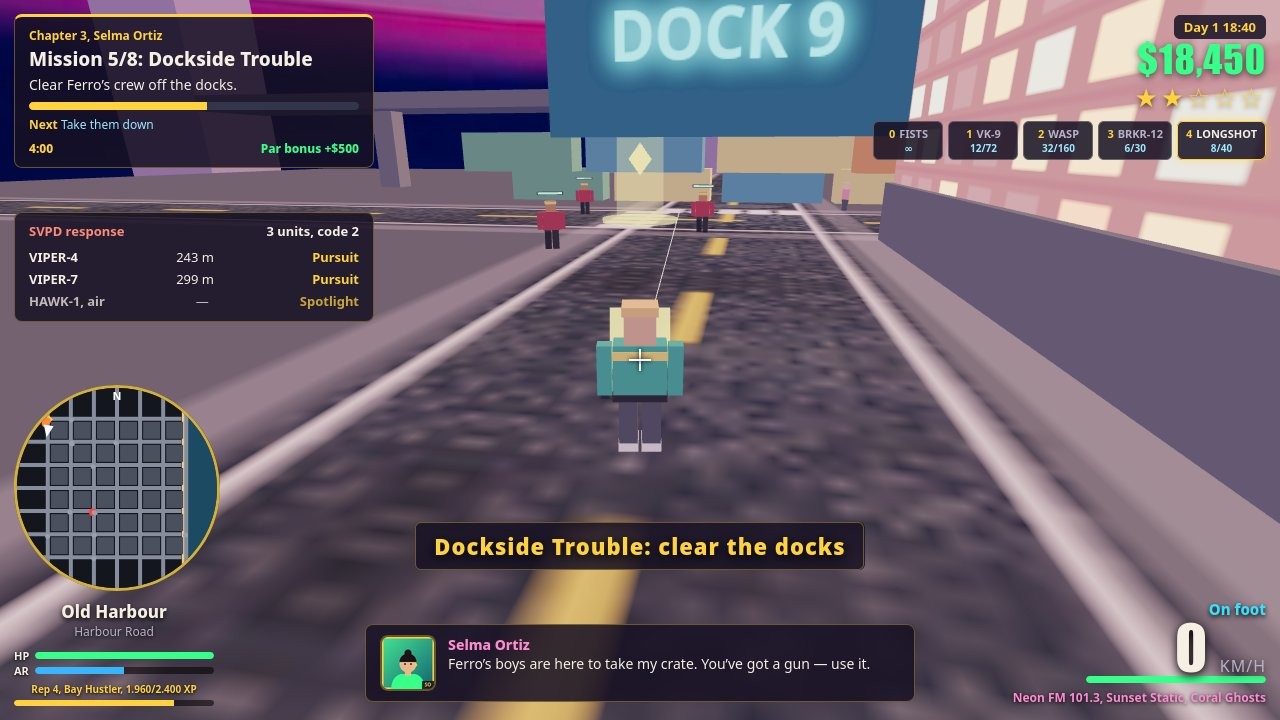
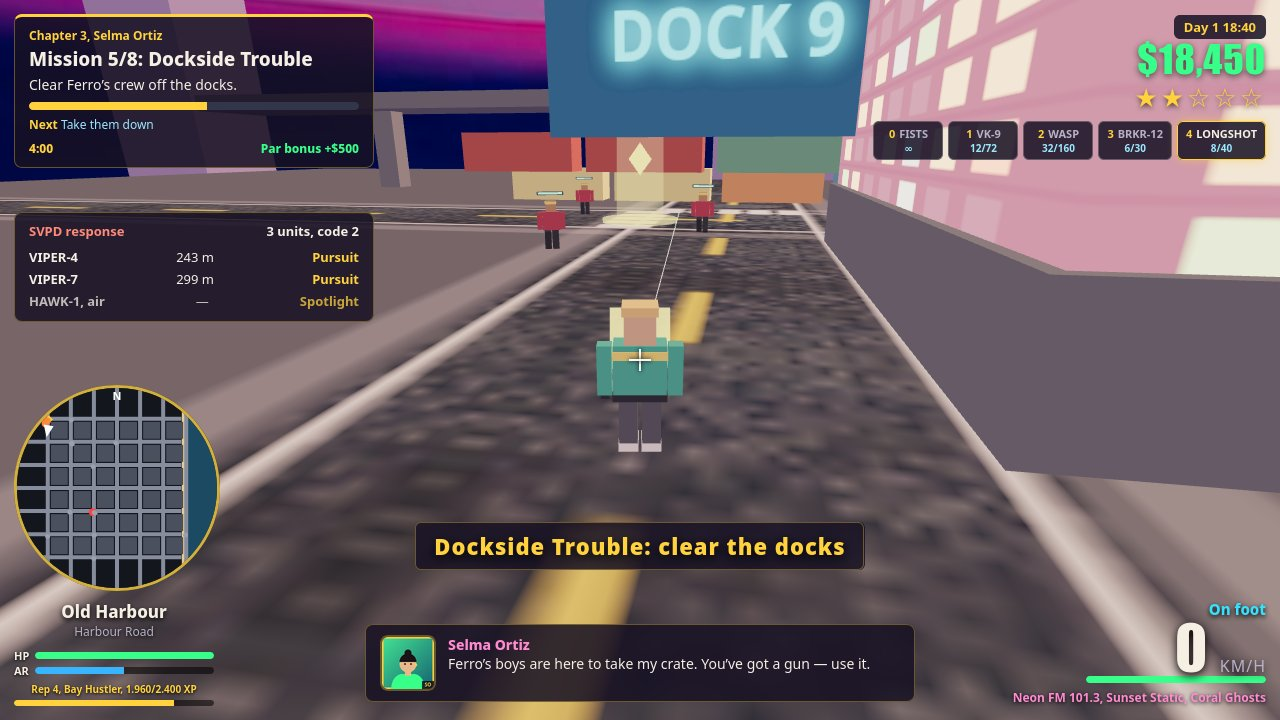
v8: rank-3 execution — three-quarter chase camera, golden haze, dust trail, visible heli beam

Changed region(s): [[0.3438, 0.0, 1.0, 0.7333]]

diff --git a/game/src/world.js b/game/src/world.js
@@ -388,7 +388,7 @@ function makePalm() {
 const TOD = {
   day: { sun: 0xfff2d0, sunI: 1.5, hemiI: 0.95, ambI: 0.45, fog: 0xcfe0ea, sky: ['#7fb3e8', '#a8c8e8', '#f2d8a0'], lamp: 0.25 },
   golden: { sun: 0xffb36b, sunI: 1.25, hemiI: 0.85, ambI: 0.42, fog: 0xf2a06b, sky: ['#4a2a7e', '#d64a7a', '#ff8a3e'], lamp: 0.6 },
-  sunset: { sun: 0xff8a4a, sunI: 1.1, hemiI: 0.55, ambI: 0.28, fog: 0xe87a8a, sky: ['#5a3a8a', '#e86a92', '#ff9e3e'], lamp: 1.0 },
+  sunset: { sun: 0xff8a4a, sunI: 1.25, hemiI: 0.55, ambI: 0.28, fog: 0xef8f66, sky: ['#5a3a8a', '#e86a92', '#ff9e3e'], lamp: 1.0 },
   night: { sun: 0x8aa0c8, sunI: 0.25, hemiI: 0.3, ambI: 0.18, fog: 0x1a2038, sky: ['#0a0e22', '#1a2040', '#2a2a4a'], lamp: 1.6 },
 };
 function todPhase(minutes) {
@@ -463,14 +463,17 @@ export function createWorld(scene, seed, assets) {
   // v4: WARM ORANGE sun, sharp edge, never blown/pale — the v3 disc read
   // yellow-white in the cover (LOCAL-JUDGE-v3 C3). Core is deep orange
   // (255,128,40), solid to 0.60, hard cut by 0.70; no white-hot centre.
+  // v8: deeper golden core (was 255,176,64 pale yellow — ACES washed the
+  // disc pale against the magenta sky; rank 3's sun is deep gold, not
+  // white-yellow). Core 255,150,36 -> mid 255,118,28, hard cut by 0.70.
   const sunTex = canvasTexture(128, 128, (g) => {
     const grad = g.createRadialGradient(64, 64, 4, 64, 64, 62);
-    grad.addColorStop(0, 'rgba(255,176,64,1)');
-    grad.addColorStop(0.5, 'rgba(255,128,40,1)');
-    grad.addColorStop(0.6, 'rgba(255,100,32,1)');
-    grad.addColorStop(0.66, 'rgba(255,90,30,0.95)');
-    grad.addColorStop(0.7, 'rgba(255,110,40,0)');
-    grad.addColorStop(1, 'rgba(255,110,40,0)');
+    grad.addColorStop(0, 'rgba(255,150,36,1)');
+    grad.addColorStop(0.5, 'rgba(255,118,28,1)');
+    grad.addColorStop(0.6, 'rgba(255,96,22,1)');
+    grad.addColorStop(0.66, 'rgba(255,88,20,0.95)');
+    grad.addColorStop(0.7, 'rgba(255,100,30,0)');
+    grad.addColorStop(1, 'rgba(255,100,30,0)');
     g.fillStyle = grad;
     g.fillRect(0, 0, 128, 128);
   });
@@ -487,29 +490,49 @@ export function createWorld(scene, seed, assets) {
   );
   sunDisc.position.set(180, 75, -330);
   sunDisc.lookAt(180, 10, 60);
+  sunDisc.renderOrder = 4;
   scene.add(sunDisc);
   // v4: halo smaller + dimmer still (110 -> 95, opacity 0.25 -> 0.15) so
   // the warm disc keeps a crisp edge against the pink sky.
   // v7: halo follows the disc (r 95 -> 75).
+  // v8: halo back up (r 75 -> 85, opacity 0.15 -> 0.25 in
+  // applyTimeOfDay below) — rank 3's sun wears a visible golden halo,
+  // ours was a flat disc with no glow around it.
   const haloDisc = new THREE.Mesh(
-    new THREE.CircleGeometry(75, 32),
-    new THREE.MeshBasicMaterial({ map: sunTex, transparent: true, opacity: 0.15, depthWrite: false, fog: false }),
+    new THREE.CircleGeometry(85, 32),
+    new THREE.MeshBasicMaterial({ map: sunTex, transparent: true, opacity: 0.25, depthWrite: false, fog: false }),
   );
   haloDisc.position.set(180, 75, -330);
   haloDisc.lookAt(180, 10, 60);
+  haloDisc.renderOrder = 3;
   scene.add(haloDisc);
   // v5: a soft haze disc behind the sun so the disc sits in glowing air
   // instead of pasted on the sky (LOCAL-JUDGE-v4 C3). Round 2: radius
   // 150 -> 110 and opacity 0.14 -> 0.10 — the big disc washed half the
   // sky pale in round 1; haze hugs the sun now, it does not own the sky.
   // v7: haze follows the disc (r 110 -> 90).
+  // v8 (LOCAL-JUDGE-v7 C3, rank-3 decider b): the haze must actually be
+  // FELT — v7's r90/0.10 was invisible against the photo sky. Haze now
+  // r 150 at 0.20 in deep gold, plus a far r 230 wash at 0.07 so the
+  // golden hour wraps the whole horizon around the sun instead of a
+  // flat purple-magenta disc. renderOrder pins the stack: far haze,
+  // near haze, halo, disc — no z-fighting sort surprises.
   const hazeDisc = new THREE.Mesh(
-    new THREE.CircleGeometry(90, 32),
-    new THREE.MeshBasicMaterial({ color: 0xffb38a, transparent: true, opacity: 0.1, depthWrite: false, fog: false }),
+    new THREE.CircleGeometry(150, 32),
+    new THREE.MeshBasicMaterial({ color: 0xffc27a, transparent: true, opacity: 0.2, depthWrite: false, fog: false }),
   );
   hazeDisc.position.set(180, 75, -330);
   hazeDisc.lookAt(180, 10, 60);
+  hazeDisc.renderOrder = 2;
   scene.add(hazeDisc);
+  const hazeFar = new THREE.Mesh(
+    new THREE.CircleGeometry(230, 32),
+    new THREE.MeshBasicMaterial({ color: 0xffb070, transparent: true, opacity: 0.07, depthWrite: false, fog: false }),
+  );
+  hazeFar.position.set(180, 75, -330);
+  hazeFar.lookAt(180, 10, 60);
+  hazeFar.renderOrder = 1;
+  scene.add(hazeFar);
   animated.sunSprite = sunDisc;
 
   // Clouds: flattened mesh puffs (same reason as the sun — meshes render,
@@ -528,11 +551,14 @@ export function createWorld(scene, seed, assets) {
   // material at 0.35 (the 0.65 cloud material blew out to white cotton),
   // smaller and tighter to the disc.
   // v7: cluster follows the disc to the road axis (was 60, 92).
-  const puffMat = new THREE.MeshBasicMaterial({ color: 0xffc9a0, transparent: true, opacity: 0.35, fog: false });
-  for (let i = 0; i < 5; i += 1) {
+  // v8: 5 -> 9 puffs, deeper gold (0xffb070), opacity 0.35 -> 0.42,
+  // tighter to the disc (x ±60) — the haze band around the sun should
+  // read as glowing air at contact-sheet scale, not five faint smudges.
+  const puffMat = new THREE.MeshBasicMaterial({ color: 0xffb070, transparent: true, opacity: 0.42, fog: false });
+  for (let i = 0; i < 9; i += 1) {
     const puff = new THREE.Mesh(new THREE.SphereGeometry(1, 10, 8), puffMat);
     puff.scale.set(range(rng, 22, 40), range(rng, 3, 6), range(rng, 8, 14));
-    puff.position.set(180 + range(rng, -70, 70), range(rng, 65, 95), -330 + range(rng, -20, 20));
+    puff.position.set(180 + range(rng, -60, 60), range(rng, 62, 95), -330 + range(rng, -15, 15));
     scene.add(puff);
     animated.clouds.push(puff);
   }
@@ -1023,7 +1049,7 @@ export function createWorld(scene, seed, assets) {
     const lampScale = p.lamp;
     for (const lm of lampMats) lm.color.setHex(0xffe9a0).multiplyScalar(Math.min(1.6, lampScale));
     sunDisc.material.opacity = phase === 'night' ? 0.15 : 1;
-    haloDisc.material.opacity = phase === 'night' ? 0.05 : 0.15; // v4: dimmer halo
+    haloDisc.material.opacity = phase === 'night' ? 0.05 : 0.25; // v8: 0.15 -> 0.25, golden halo must read
     return phase;
   }
   applyTimeOfDay(18 * 60 + 52);

diff --git a/game/src/police.js b/game/src/police.js
@@ -17,6 +17,20 @@ import { POLICE_CALLSIGNS } from './config.js';
 const THREE = window.THREE;
 const POLICE_SCALE = 1.25;
 
+function makeBeamPoolTexture() {
+  const c = document.createElement('canvas');
+  c.width = 128;
+  c.height = 128;
+  const g = c.getContext('2d');
+  const grad = g.createRadialGradient(64, 64, 2, 64, 64, 62);
+  grad.addColorStop(0, 'rgba(255,244,190,0.95)');
+  grad.addColorStop(0.4, 'rgba(255,232,150,0.45)');
+  grad.addColorStop(1, 'rgba(255,232,150,0)');
+  g.fillStyle = grad;
+  g.fillRect(0, 0, 128, 128);
+  return new THREE.CanvasTexture(c);
+}
+
 function makeHeli() {
   const heli = new THREE.Group();
   const heliBody = new THREE.Mesh(new THREE.BoxGeometry(3.2, 1.4, 6), new THREE.MeshLambertMaterial({ color: 0x22242e }));
@@ -26,14 +40,29 @@ function makeHeli() {
   heliTail.position.set(0, 0.3, -4.6);
   const rotor = new THREE.Mesh(new THREE.BoxGeometry(9, 0.12, 0.7), new THREE.MeshLambertMaterial({ color: 0x11131a }));
   rotor.position.y = 1.1;
+  // v8 (LOCAL-JUDGE-v7 C3, rank-3 decider d): the beam must READ in the
+  // cover — the v7 cone (r 3.2, opacity 0.22) was a faint needle against
+  // the bright road. Core cone is now wide (r 5.5) and bright (0.40),
+  // wrapped in a soft outer cone (r 9, 0.10) for the volumetric feel,
+  // with a bright searchlight bulb at the belly so the source is visible.
   const spot = new THREE.Mesh(
-    new THREE.ConeGeometry(3.2, 22, 12, 1, true),
-    new THREE.MeshBasicMaterial({ color: 0xfff2b0, transparent: true, opacity: 0.22, side: THREE.DoubleSide, depthWrite: false }),
+    new THREE.ConeGeometry(5.5, 20, 16, 1, true),
+    new THREE.MeshBasicMaterial({ color: 0xffe9a0, transparent: true, opacity: 0.4, side: THREE.DoubleSide, depthWrite: false }),
   );
-  spot.position.y = -11;
-  heli.add(heliBody, heliGlass, heliTail, rotor, spot);
+  spot.position.y = -10;
+  const spotOuter = new THREE.Mesh(
+    new THREE.ConeGeometry(9, 20, 16, 1, true),
+    new THREE.MeshBasicMaterial({ color: 0xfff2b0, transparent: true, opacity: 0.1, side: THREE.DoubleSide, depthWrite: false }),
+  );
+  spotOuter.position.y = -10;
+  const bulb = new THREE.Mesh(
+    new THREE.SphereGeometry(0.55, 10, 8),
+    new THREE.MeshBasicMaterial({ color: 0xfff6c0 }),
+  );
+  bulb.position.set(0, -0.8, 1.5);
+  heli.add(heliBody, heliGlass, heliTail, rotor, spot, spotOuter, bulb);
   heli.visible = false;
-  return { heli, rotor, spot };
+  return { heli, rotor, spot, spotOuter };
 }
 
 export function createPolice(scene, world) {
@@ -54,8 +83,21 @@ export function createPolice(scene, world) {
   unit4.visible = false;
   scene.add(unit4);
   // HAWK-1 air unit: simple helicopter that shadows the player while wanted.
-  const { heli, rotor, spot } = makeHeli();
+  const { heli, rotor, spot, spotOuter } = makeHeli();
   scene.add(heli);
+  // v8: the beam's landing pool on the road — a warm additive disc under
+  // the heli so the spotlight reads as light hitting the street, not a
+  // cone floating in the air. Scene-level (not a heli child) so it stays
+  // flat on the road while the heli bobs.
+  const beamPool = new THREE.Mesh(
+    new THREE.CircleGeometry(6.5, 24),
+    new THREE.MeshBasicMaterial({ map: makeBeamPoolTexture(), transparent: true, opacity: 0.55, blending: THREE.AdditiveBlending, depthWrite: false }),
+  );
+  beamPool.rotation.x = -Math.PI / 2;
+  beamPool.position.y = 0.06;
+  beamPool.renderOrder = 4;
+  beamPool.visible = false;
+  scene.add(beamPool);
   const state = {
     x: -60,
     z: 60,
@@ -225,10 +267,14 @@ export function createPolice(scene, world) {
       heli.rotation.y = Math.atan2(tx - hx, tz - hz);
       rotor.rotation.y += dt * 18;
       spot.visible = true;
+      spotOuter.visible = true;
+      beamPool.visible = true;
+      beamPool.position.set(hx, 0.06, hz);
       state.heliX = hx;
       state.heliZ = hz;
     } else {
       heli.visible = false;
+      beamPool.visible = false;
     }
     mesh.position.set(state.x, 0, state.z);
     mesh.rotation.y = state.heading;
@@ -315,6 +361,9 @@ export function createPolice(scene, world) {
     heli.position.set(x, y || 26, z);
     heli.rotation.y = 0;
     spot.visible = true;
+    spotOuter.visible = true;
+    beamPool.visible = true;
+    beamPool.position.set(x, 0.06, z);
     state.heliX = x;
     state.heliZ = z;
   }

diff --git a/game/src/effects.js b/game/src/effects.js
@@ -29,7 +29,19 @@ function makePuffTexture() {
   return puffTex;
 }
 
-const DUST_N = 48;
+// v8 (LOCAL-JUDGE-v7 C3, rank-3 decider c): rank 3's dust is a TRAIL
+// streaming back along the road, denser than ours — our v7 cloud is glued
+// to the bumper by FULL advection (puffs travel with the car, drifting
+// back only 2.5–4 m/s, so the cloud never stretches). v8 advects at HALF
+// the car's velocity: a puff lags the car at ~0.5 × speed, so over its
+// ~1 s life it streams ~20 m back down the road while the spawn rate
+// keeps the strip between car and camera continuously filled — a trail,
+// not a cloud. Puffs that drift past the camera plane are behind the
+// camera and invisible, so the trail reads exactly where rank 3's does:
+// the road behind the car, down to the bottom of the frame.
+const ADVECT = 0.5;
+
+const DUST_N = 80;
 const SMOKE_N = 16;
 
 export function createEffects(scene, camera) {
@@ -127,6 +139,9 @@ export function createEffects(scene, camera) {
     // more than ~5 m is behind the camera and invisible — the relative
     // backward drift below is only 2.5–4 m/s, so the cloud stays glued
     // to the rear wheels for its whole life.
+    // v8: HALF advection (ADVECT 0.5) — see the header note. The puff's
+    // world motion is (0.5 × car velocity + its own small relative
+    // drift), so it streams back along the road as a trail.
     let advX = 0;
     let advZ = 0;
     if (carState && throttle > 0) {
@@ -136,25 +151,29 @@ export function createEffects(scene, camera) {
       const fz = Math.cos(h);
       const rx = Math.cos(h);
       const rz = -Math.sin(h);
-      advX = fx * speed;
-      advZ = fz * speed;
+      advX = fx * speed * ADVECT;
+      advZ = fz * speed * ADVECT;
       if (speed > 12) {
         // Tire dust: two rear wheels, kicked up behind the car. Rate and
         // size grow with speed; at V-max the cloud is at its thickest.
-        dustAcc += dt * (14 + speed * 0.6);
+        // v8 R3 (dream-loop R2): R2's trail read but stayed modest next
+        // to rank 3's billowing cloud — peak 0.38 -> 0.42, end size
+        // 2.6 -> 2.9, rate 18 + 0.85/speed. Still below the R1 washout
+        // settings (0.45 / 3.0-3.8 / 20 + 0.9), so the crisp road stays.
+        dustAcc += dt * (18 + speed * 0.85);
         while (dustAcc >= 1) {
           dustAcc -= 1;
           const s = Math.random() < 0.5 ? -1 : 1;
-          const wx = carState.x + fx * -1.5 + rx * s * 1.08 + (Math.random() - 0.5) * 0.5;
-          const wz = carState.z + fz * -1.5 + rz * s * 1.08 + (Math.random() - 0.5) * 0.5;
+          const wx = carState.x + fx * -1.5 + rx * (s * 1.08 + (Math.random() - 0.5) * 1.4) + (Math.random() - 0.5) * 0.5;
+          const wz = carState.z + fz * -1.5 + rz * (s * 1.08 + (Math.random() - 0.5) * 1.4) + (Math.random() - 0.5) * 0.5;
           const drift = 2.5 + Math.random() * 1.5; // m/s back, relative
           spawn(
-            dust, wx, 0.25 + Math.random() * 0.25, wz,
+            dust, wx, 0.2 + Math.random() * 0.25, wz,
             -fx * drift + (Math.random() - 0.5) * 1.6,
-            0.4 + Math.random() * 0.7,
+            0.35 + Math.random() * 0.6,
             -fz * drift + (Math.random() - 0.5) * 1.6,
-            0.7 + Math.random() * 0.4, 2.2 + Math.random() * 0.8,
-            1.2 + Math.random() * 0.3, 0.42, 0.8,
+            0.9 + Math.random() * 0.4, 2.9 + Math.random() * 0.6,
+            0.9 + Math.random() * 0.3, 0.42, 0.8,
           );
         }
       }

diff --git a/game/src/shots.js b/game/src/shots.js
@@ -80,7 +80,14 @@ export function stageShot(game, name) {
     g.police.placeUnit2(g.car.state.x + 4, g.car.state.z - 34, Math.PI, 28);
     g.police.placeUnit3(g.car.state.x + 4, g.car.state.z - 56, Math.PI, 26);
     g.police.placeUnit4(g.car.state.x - 5, g.car.state.z - 74, Math.PI, 26);
-    g.police.placeHeli(g.car.state.x - 16, g.car.state.z - 62, 22);
+    // v8: HAWK-1 hangs over the road ahead so its spotlight cone lands
+    // on the street by the pursuit — rank 3 shows the beam hitting the
+    // road by the cruiser, not a distant dot.
+    // v8 R2 (dream-loop R1): 34 m ahead at y 20 put the heli at ~24 deg
+    // elevation — near the top edge, half-cut, beam out of frame. 48 m
+    // ahead at y 19 drops it to ~17 deg, upper-centre and fully in
+    // frame, beam pool on the road by VIPER-9.
+    g.police.placeHeli(g.car.state.x - 8, g.car.state.z - 48, 19);
     // Three-quarter rear view, like the reference: swing the chase cam
     // to the side so the Solaris reads as a car, not a flat box, and drop
     // the pitch so the camera sees the rear + flank instead of the roof
@@ -92,7 +99,22 @@ export function stageShot(game, name) {
     // v4: yaw offset stays 0.38 (v3) — swinging it to 0.46 pushed the
     // ferris wheel out of the frame (C1 breadth loss, not worth it for a
     // headlight edge the rear camera barely sees anyway).
-    g.render.coverFraming(0.38, 76);
+    // v8 (LOCAL-JUDGE-v7 C3, rank-3 decider a): yaw 0.38 -> 0.58 — a real
+    // three-quarter angle: the Solaris shows its left flank, wheels and
+    // low-wide wedge instead of a dead-rear box, like rank 3's cover.
+    // The v4 wheel trap is fixed the other way: aimX pans the lookAt
+    // toward the beach, so the ferris wheel stays in frame at the wider
+    // swing, and FOV 76 -> 78 buys back the margin. Distance stays 6.5 m
+    // (v6 R1: 5.6 m cropped the speedometer — never again).
+    // v8 R2 (dream-loop R1): aimX 7 was far too much — at a 7 m lookAt
+    // distance it swung the view ~45 deg and pushed the hero car out of
+    // the frame left. aimX 1.5 keeps the car left-of-centre (rank 3's
+    // car sits left too) with the wheel still inside the right edge.
+    // v8 R3 (dream-loop R2): aimX 1.5 -> 2.0 — R2 left only a sliver of
+    // the ferris wheel at the right edge (thinner than v7); +0.5 buys
+    // ~50 px of wheel back while the car stays left-of-centre and the
+    // sun stays clear of the tower at its left edge.
+    g.render.coverFraming(0.58, 78, 2.0);
     g.render.cam.pitch = 0.15;
     // v6 R2: camera stays at the v5 6.5 m — the R1 pull-in to 5.6 m
     // cropped the speedometer and pushed the ferris wheel out of frame.

diff --git a/main.ts b/main.ts
@@ -34,7 +34,7 @@ if (existsSync(join(here, 'screenshots'))) cpSync(join(here, 'screenshots'), joi
 // (1.960 / 2.400 XP), mission timer 2:40 + PAR BONUS +$650, combat staged
 // at REP 4, warm orange sun, textured road, varied building windows,
 // sculpt pass 2 on the Solaris GT (steeper wedge, brighter headlights).
-const ENTRY_VERSION = 'v7 — rank-3 deciders: tire dust + exhaust smoke behind the car at speed (real VFX, advected with the car), sun moved onto the Ocean Boulevard axis (full low disc at the end of the road, no longer half-hidden by a tower), sculpted side panels (dark shoulder crease, layered skirt blade + neon stripe, fender arch trims, door slash), headlight glow (beam cones + road pools ahead), real top speed raised to 169 km/h (driven to in the cover staging), end shot re-staged to Ocean Boulevard (sun on the road axis, ferris wheel, crisp road)';
+const ENTRY_VERSION = 'v8 — rank-3 execution: three-quarter chase camera (yaw 0.58 + aim pan keeps ferris wheel in frame), golden-hour haze around the sun (deep-gold disc, wider halo, layered haze discs + puffs, warm fog), dust trail streaming back along the road (half-advection, denser + wider + bigger puffs), visible HAWK-1 spotlight beam (wide core + outer cone, road pool, searchlight bulb) landing on VIPER-7';
 writeFileSync(
   join(out, 'dossier.json'),
   buildDossier(out, {

diff --git a/game/src/render.js b/game/src/render.js
@@ -76,7 +76,9 @@ export function createRender(canvas) {
     };
     camera.position.set(eye.x, eye.y, eye.z);
     // Driving: look more level so the sky, sun and helicopter stay in frame.
-    camera.lookAt(target.x, target.y + (driving ? 2.0 : 1.3), target.z);
+    // v8: coverFraming may pan the aim sideways (cam.aimX) so a swung
+    // three-quarter camera still keeps the ferris wheel in frame.
+    camera.lookAt(target.x + (cam.aimX || 0), target.y + (driving ? 2.0 : 1.3), target.z);
   }
 
   // Snap the camera behind a heading (used when entering a car / staging shots).
@@ -100,10 +102,14 @@ export function createRender(canvas) {
   // immediately (the shot paints only twice, so the normal FOV lerp in
   // update() would not get there in time). yawOffset swings the chase cam
   // slightly to the side so the hero car reads as a car, not a flat box.
-  function coverFraming(yawOffset, fov) {
+  // v8: aimX pans the lookAt point sideways (metres, +x = toward the
+  // beach/ferris wheel) so the swung camera does not push the wheel out
+  // of frame — the wheel is the cover's right-edge landmark.
+  function coverFraming(yawOffset, fov, aimX) {
     cam.yaw += yawOffset;
     cam.targetYaw = cam.yaw;
     cam.baseFov = fov;
+    cam.aimX = aimX || 0;
     camera.fov = fov + 3;
     camera.updateProjectionMatrix();
   }

diff --git a/serve.ts b/serve.ts
@@ -14,9 +14,9 @@ const requested = portIndex === -1 ? 8080 : Number(args[portIndex + 1]);
 const port = Number.isInteger(requested) && requested > 0 && requested < 65536 ? requested : 8080;
 // v3: the server reports its entry version on startup so a screenshot run
 // can be matched to the build that served it.
-// v7: version bumped for the v7 cover build (dust, sun on road axis,
-// side sculpt, 169 km/h top speed).
-const SERVER_VERSION = 'v7';
+// v8: version bumped for the v8 cover build (three-quarter camera,
+// golden haze, dust trail, visible heli beam).
+const SERVER_VERSION = 'v8';
 
 const MIME: Record<string, string> = {
   '.html': 'text/html; charset=utf-8',

diff --git a/game/src/config.js b/game/src/config.js
@@ -102,8 +102,8 @@ export const PALETTE = {
   fog: 0xf2a06b,
   sun: 0xff8a3e, // v4: warm orange sun (was pale yellow-white 0xffc27a)
   sunLight: 0xffb36b,
-  hemiSky: 0xffb8c6,
-  hemiGround: 0x5a4a7a,
+  hemiSky: 0xffc2a0, // v8: warmer sky fill (was pink 0xffb8c6) — golden hour, not magenta hour
+  hemiGround: 0x6a4a5a,
   ocean: 0x2e6f8e,
   sand: 0xe8c98f,
   asphalt: 0x23262e,
